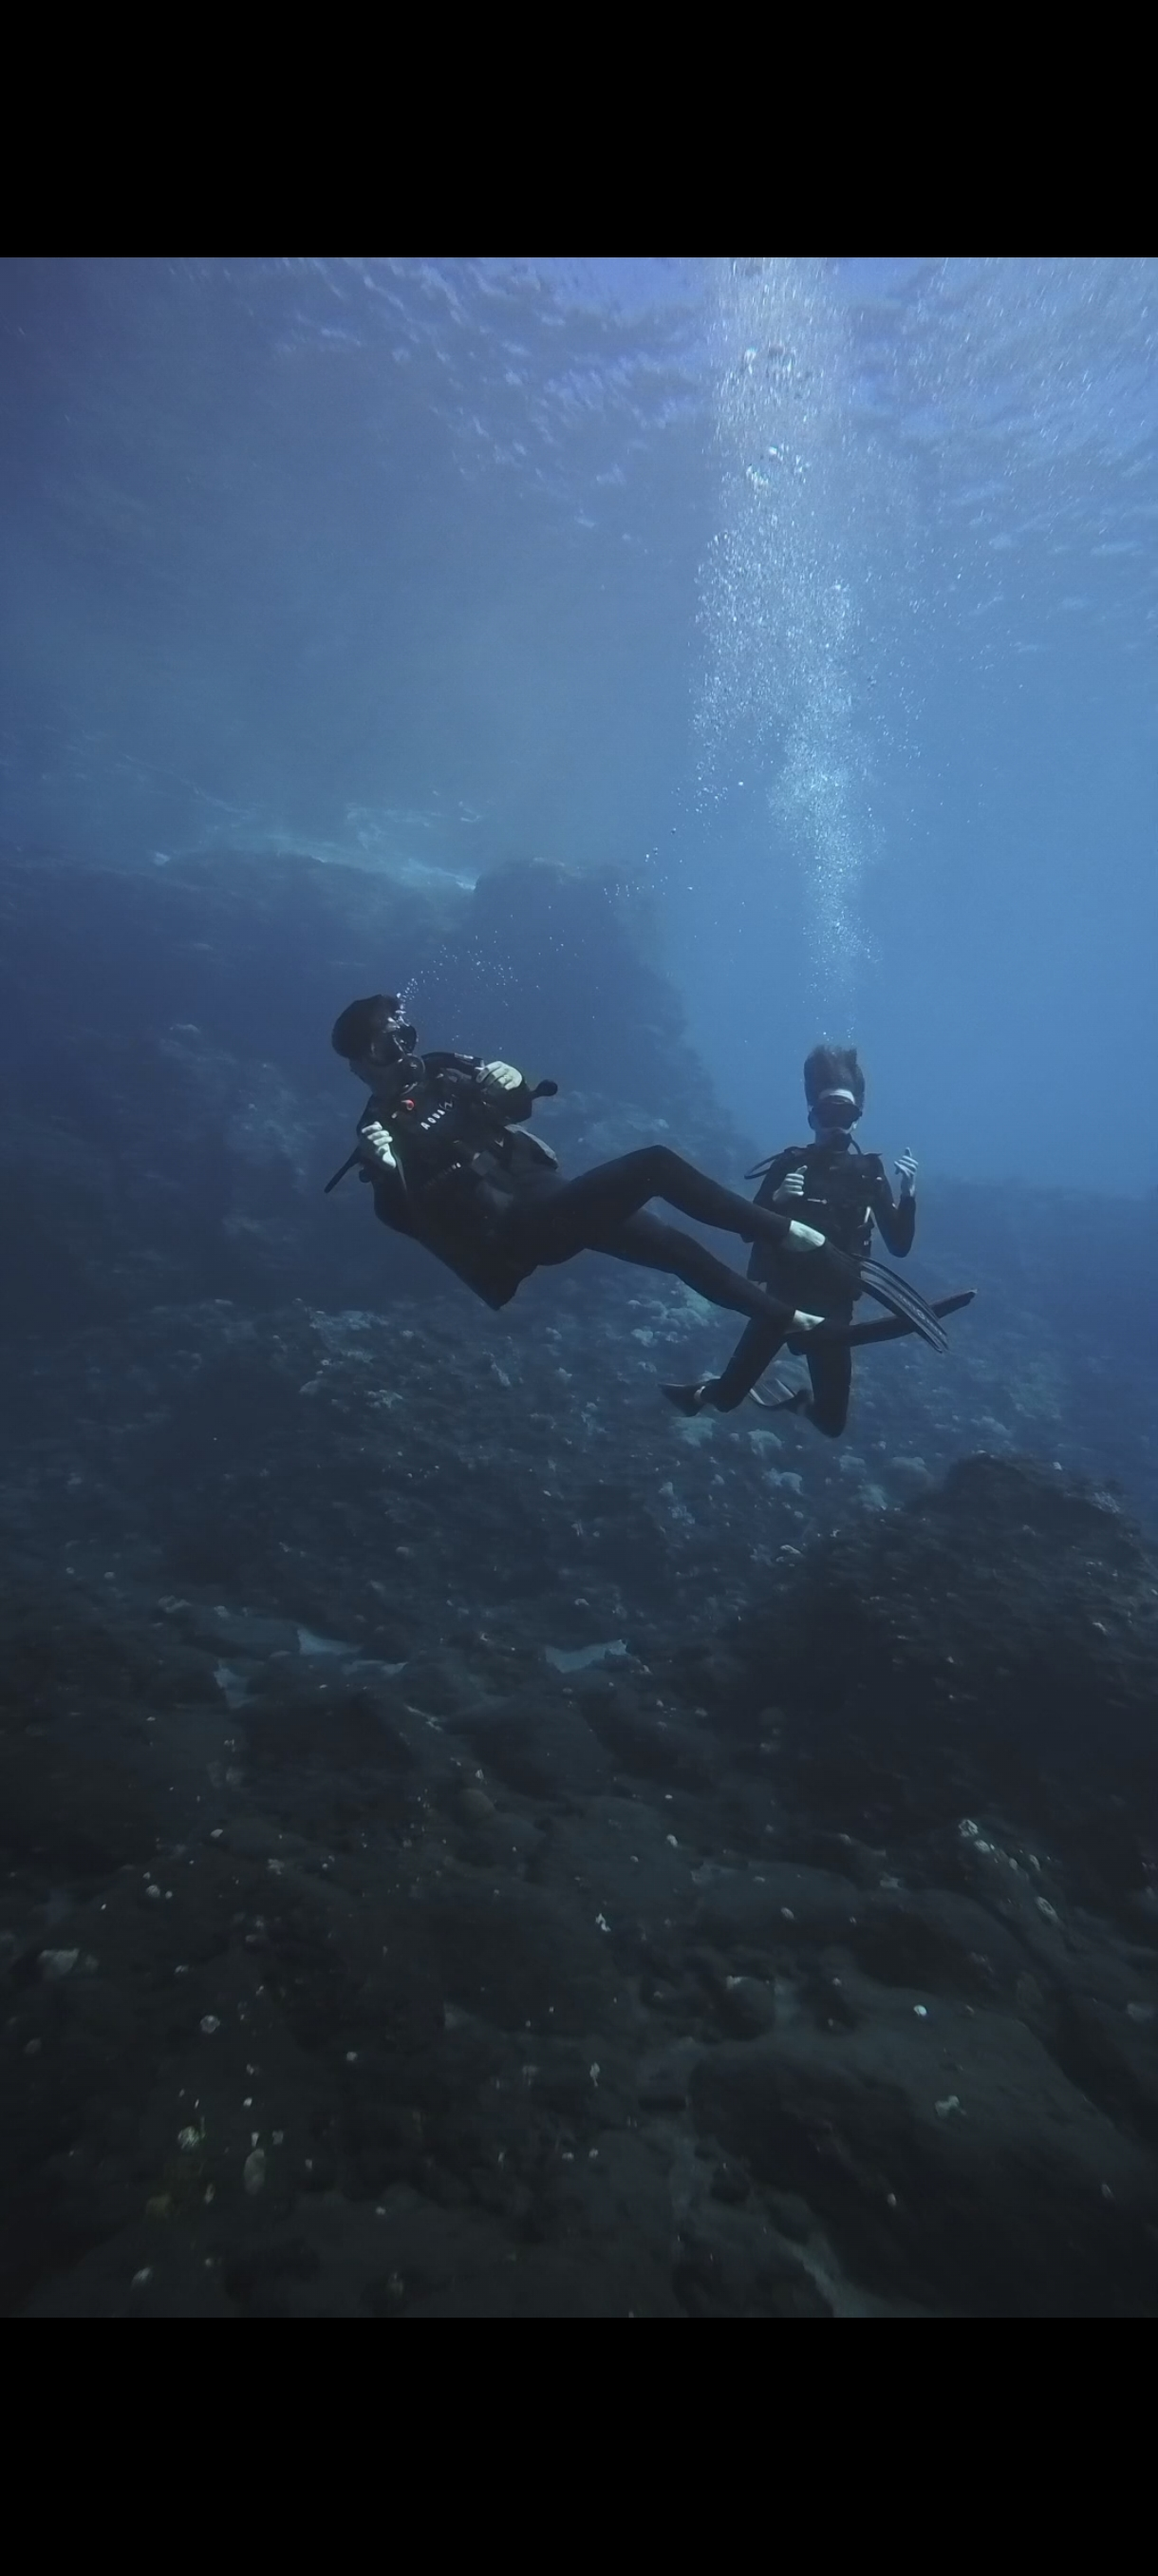
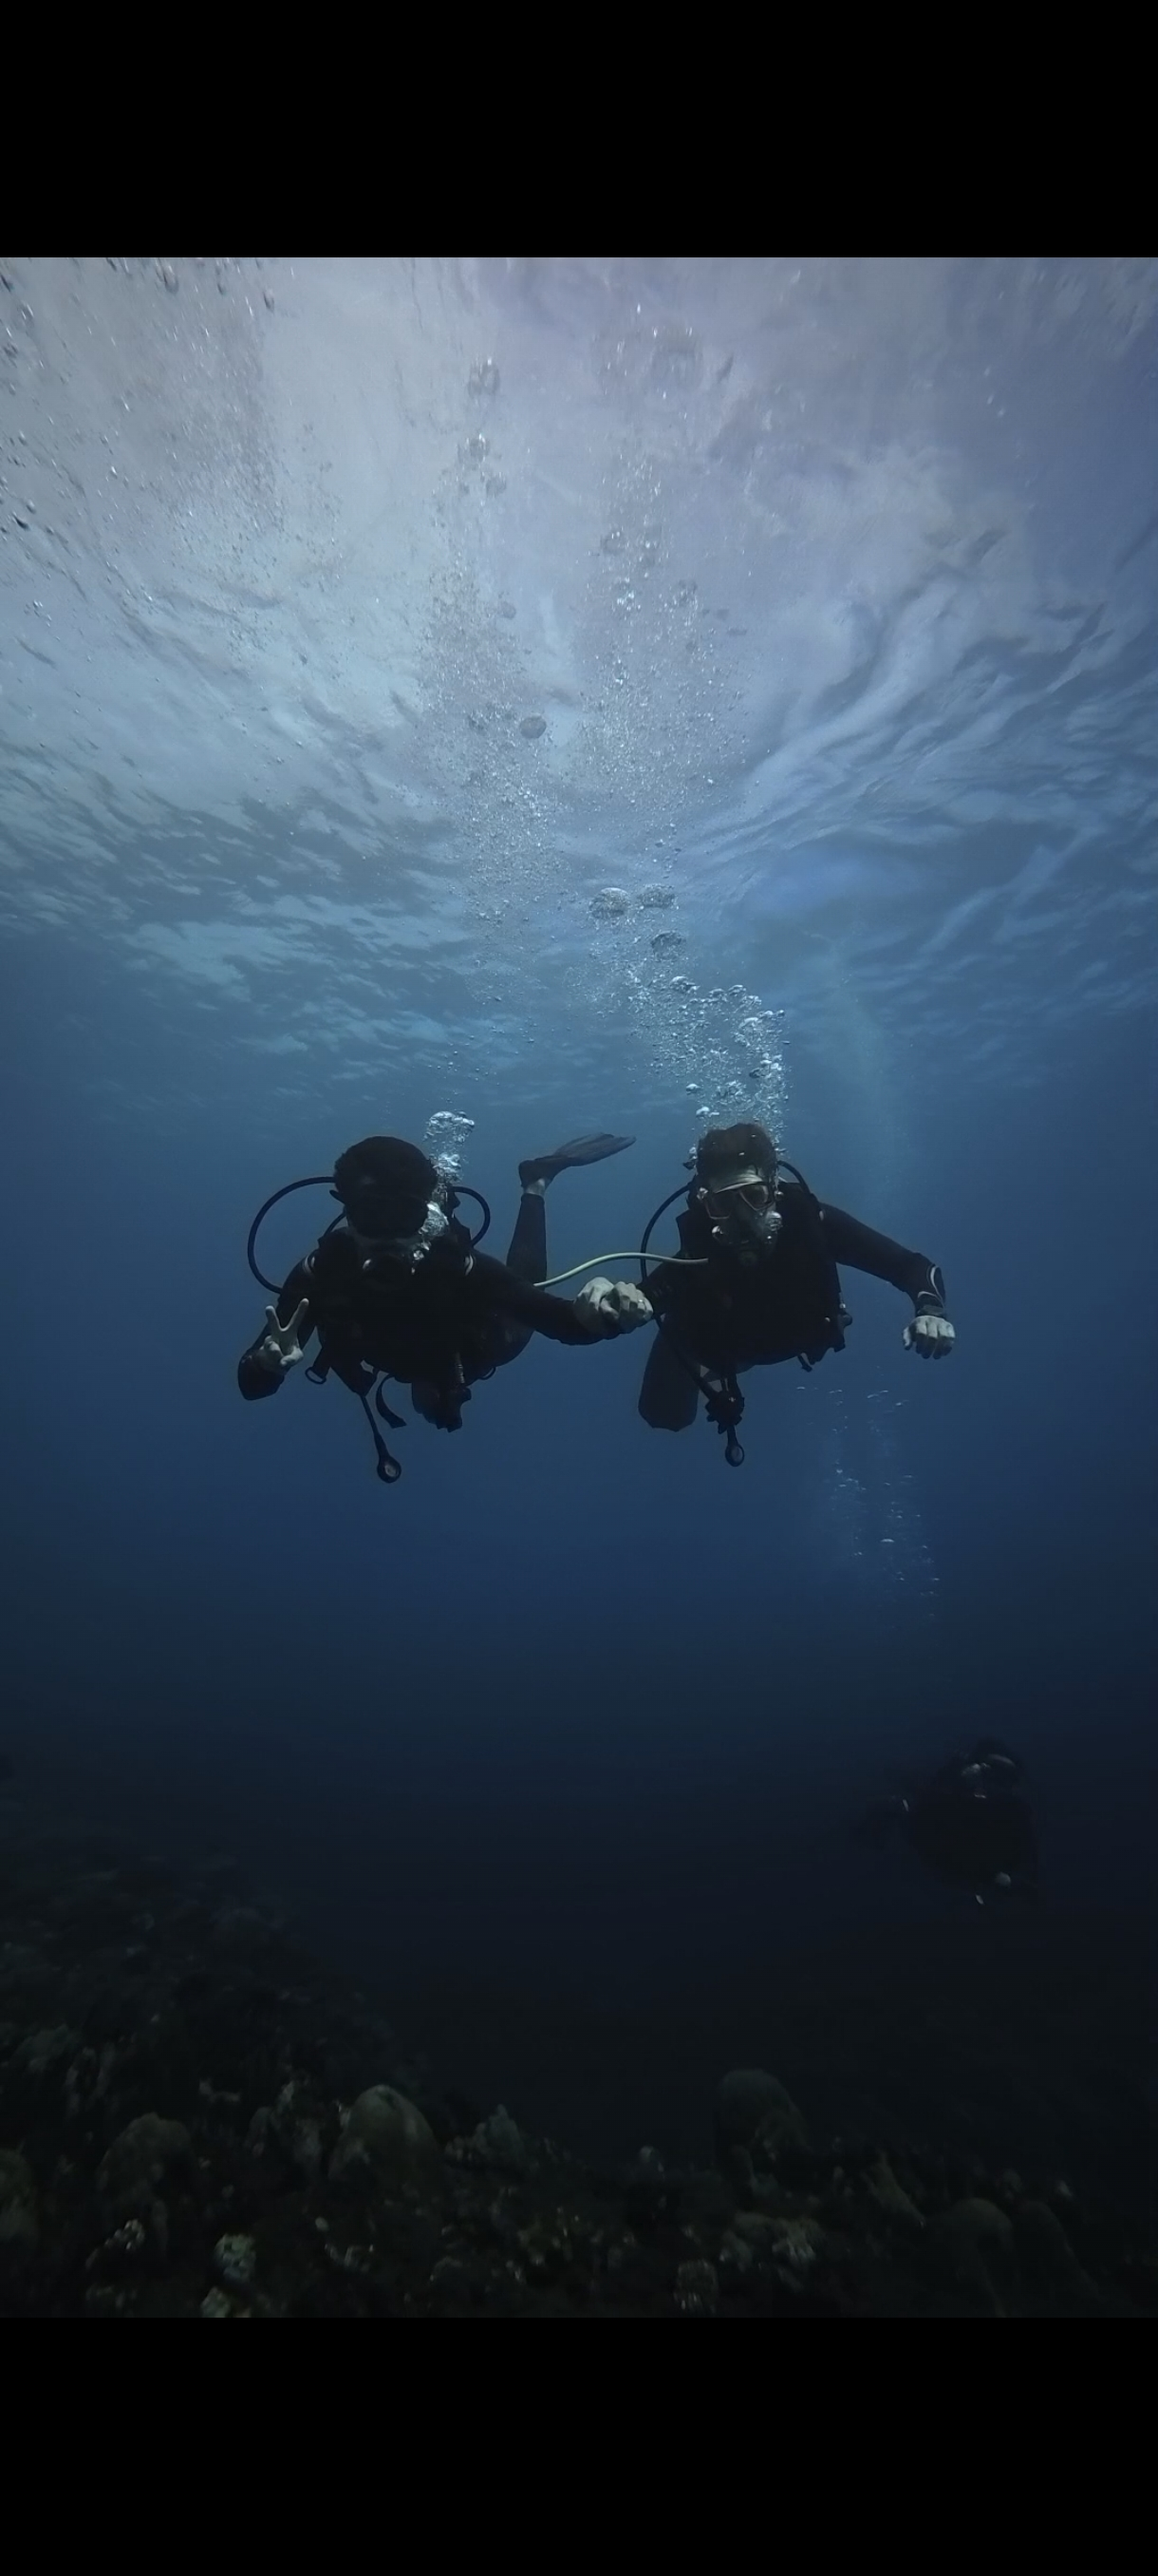
update

diff --git a/locales/fr.js b/locales/fr.js
@@ -26,7 +26,7 @@ const fr = {
     experience_label: "d'expérience internationale",
     languages: '3 langues',
     languages_label: 'Français · English · Español',
-    group: '6 pers. max',
+    group: 'Petit groupe',
     group_label: 'par sortie, encadrement privé',
   },
 
@@ -70,7 +70,8 @@ const fr = {
     eyebrow: 'Tarifs 2026',
     title: 'Des prix clairs, tout compris',
     subtitle: `Tous les tarifs sont indiqués TTC. Matériel fourni selon l'activité.`,
-    note: 'Tarifs valables en 2026 · Certification incluse dans les formations · Matériel fourni',
+    note1:'* Pour toutes autres formations ou spécialités, sur demande',
+    note2: 'Tarifs valables en 2026 · Certification incluse dans les formations · Matériel fourni',
     categories: [
       {
         title: 'Sortie Cétacés',
@@ -98,11 +99,11 @@ const fr = {
       {
         title: 'Formations',
         rows: [
+          { label: 'Plongeur Encadré 12m · 3 plongées  · certification + cours théoriques inclus', price: '260€' },
           { label: 'Niveau 1 / Open Water 20m · 5 plongées · certification + cours théoriques inclus', price: '450€' },
           { label: 'Niveau 2 / Advanced Open Water · 10 plongées · certification + carnet de plongée inclus', price: '720€' },
           { label: 'Plongeur Encadré 40m (PE40) · 4 plongées  · certification + cours théoriques inclus', price: '320€' },
-          { label: 'Plongeur Autonome 20m (PA20) · 6 plongées  · certification + cours théoriques inclus', price: '450€' },
-          { label: 'Plongeur Encadré 12m · 3 plongées  · certification + cours théoriques inclus', price: '260€' },
+          { label: 'Plongeur Autonome 20m (PA20) · 6 plongées  · certification + cours théoriques inclus', price: '450€' }, 
           { label: 'Nitrox Simple · 2 plongées · air enrichi  · certification + cours théoriques inclus', price: '180€' },
         ],
       },
@@ -208,16 +209,16 @@ Il y a 5 ans, j'ai choisi de revenir sur mon île natale pour créer Whale Divin
 
 Que ce soit pour un baptême, une sortie cétacés, une formation ou une plongée d'exploration, chaque sortie est pensée pour s'adapter à votre niveau, à vos envies et à votre rythme.`,
     credentials: [
-      'DEJEPS Plongée sous-marine — Diplôme d\'État niveau 5',
+      'DEJEPS Plongée sous-marine — Diplôme d\'État E3',
       `PADI Master Scuba Diver Trainer (MSDT)`,
       `Moniteur et formateur ANMP – Certifications reconnues à l'international`,
       'Plus de 20 ans d\'expérience — France, Philippines, international',
       `15 ans de carrière internationale (Mexique, Philippines, Thaïlande...)`,
       `Fondateur d'un centre de plongée aux Philippines, devenu l'ONG Ocean Farmers, spécialisée dans la restauration des récifs coralliens`,
       'Permis bateau côtier et hauturier',
-      'Premier Secours E1 secouriste à jour (2026)',
+      'Premier Secours E1 secouriste à jour',
       `Formation à l'observation responsable des cétacés (CEDTM)`,
-      'Assurance Responsabilité Civil professionnel',
+      'Assurance Responsabilité Civil professionnelle',
     ],
     languages: 'Français · English · Español',
   },
@@ -229,7 +230,7 @@ Que ce soit pour un baptême, une sortie cétacés, une formation ou une plongé
     cta_call: 'Appeler Paco',
     cta_whatsapp: 'WhatsApp',
     cta_instagram: 'Instagram',
-    address: 'Saint-Gilles-les-Bains · La Réunion',
+    address: 'Port de plaisance, Saint-Gilles-les-Bains · La Réunion',
     email: 'whalediving.re@gmail.com',
   },
 

diff --git a/pages/bapteme-initiation.js b/pages/bapteme-initiation.js
@@ -20,7 +20,7 @@ export default function BaptemeInitiation() {
       {/* Hero */}
       <section className={styles.hero}>
         <div className={styles.hero__overlay} />
-        <div className={styles.hero__bg} style={{ backgroundImage: "url('/images/bapteme-initiation.jpg')" }} />
+        <div className={styles.hero__bg} style={{ backgroundImage: "url('/images/bapteme-initiation.jpeg')" }} />
         <div className={styles.hero__content}>
           <p className={styles.hero__eyebrow}>🤿 Baptême & Initiation</p>
           <h1 className={styles.hero__title}>Votre première respiration sous l'eau</h1>
@@ -62,7 +62,7 @@ export default function BaptemeInitiation() {
                   <span className={styles.highlight__icon}>🎓</span>
                   <div>
                     <strong>Moniteur DEJEPS</strong>
-                    <p>Diplôme d'État niveau 5</p>
+                    <p>Diplômé d'état DEJEPS E3</p>
                   </div>
                 </div>
                 <div className={styles.highlight}>

diff --git a/components/sections/Pricing.js b/components/sections/Pricing.js
@@ -42,8 +42,8 @@ export default function Pricing() {
             </tbody>
           </table>
         </div>
-
-        <p className={styles.note}>ℹ {t('pricing.note')}</p>
+        <p className={styles.note2}>{t('pricing.note1')}</p>
+        <p className={styles.note1}>ℹ {t('pricing.note2')}</p>
 
         {/* CTA */}
         <div className={styles.cta}>
